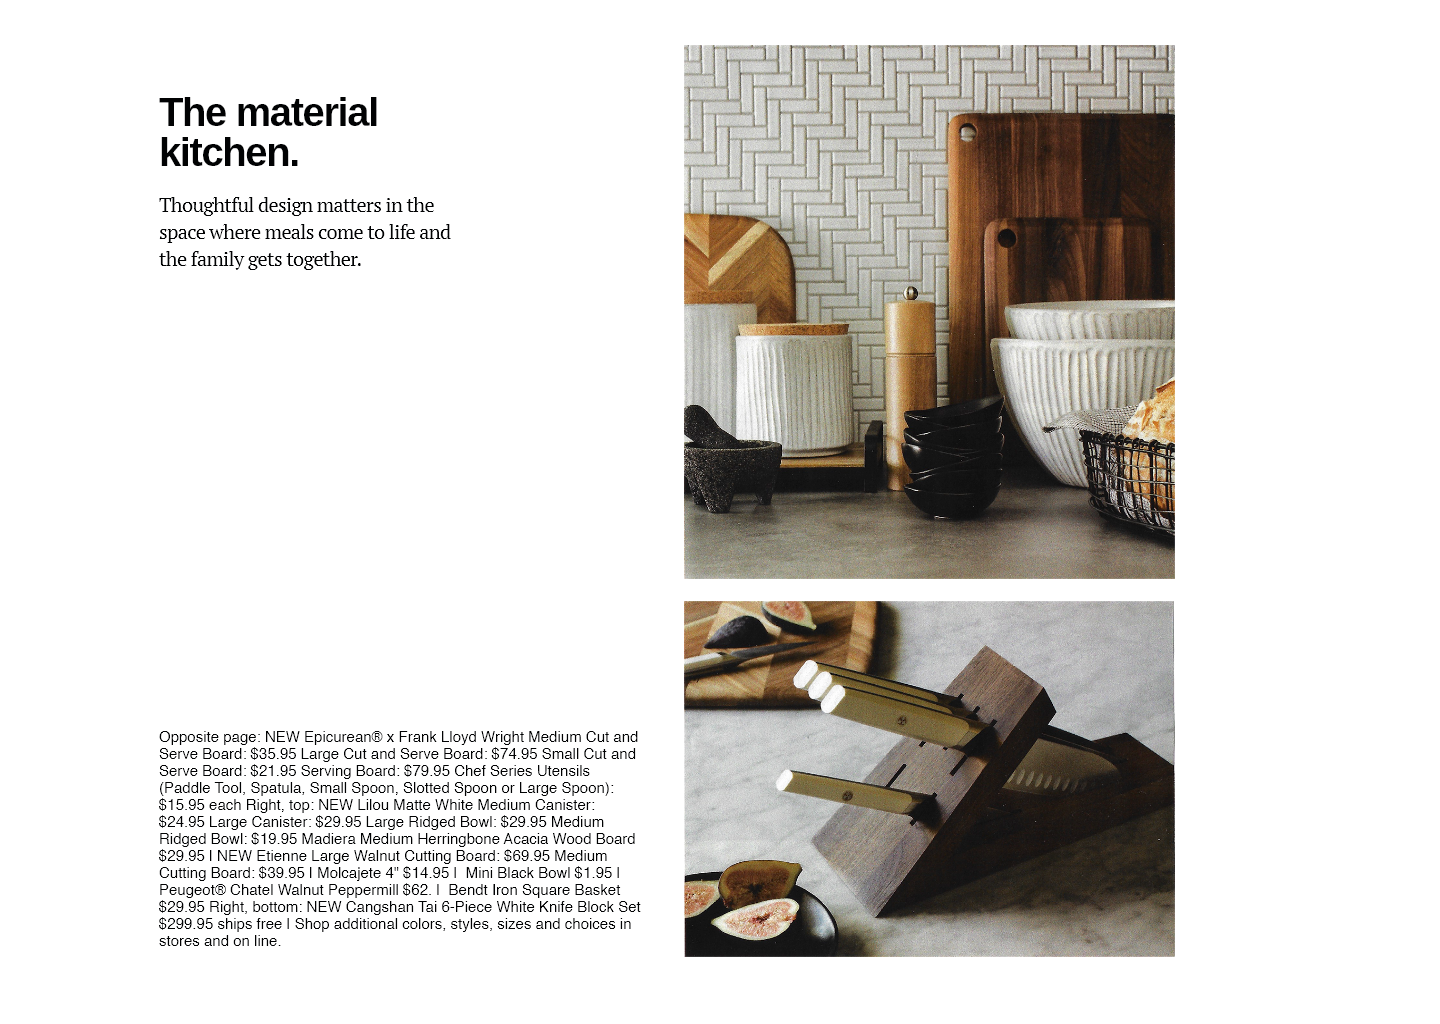
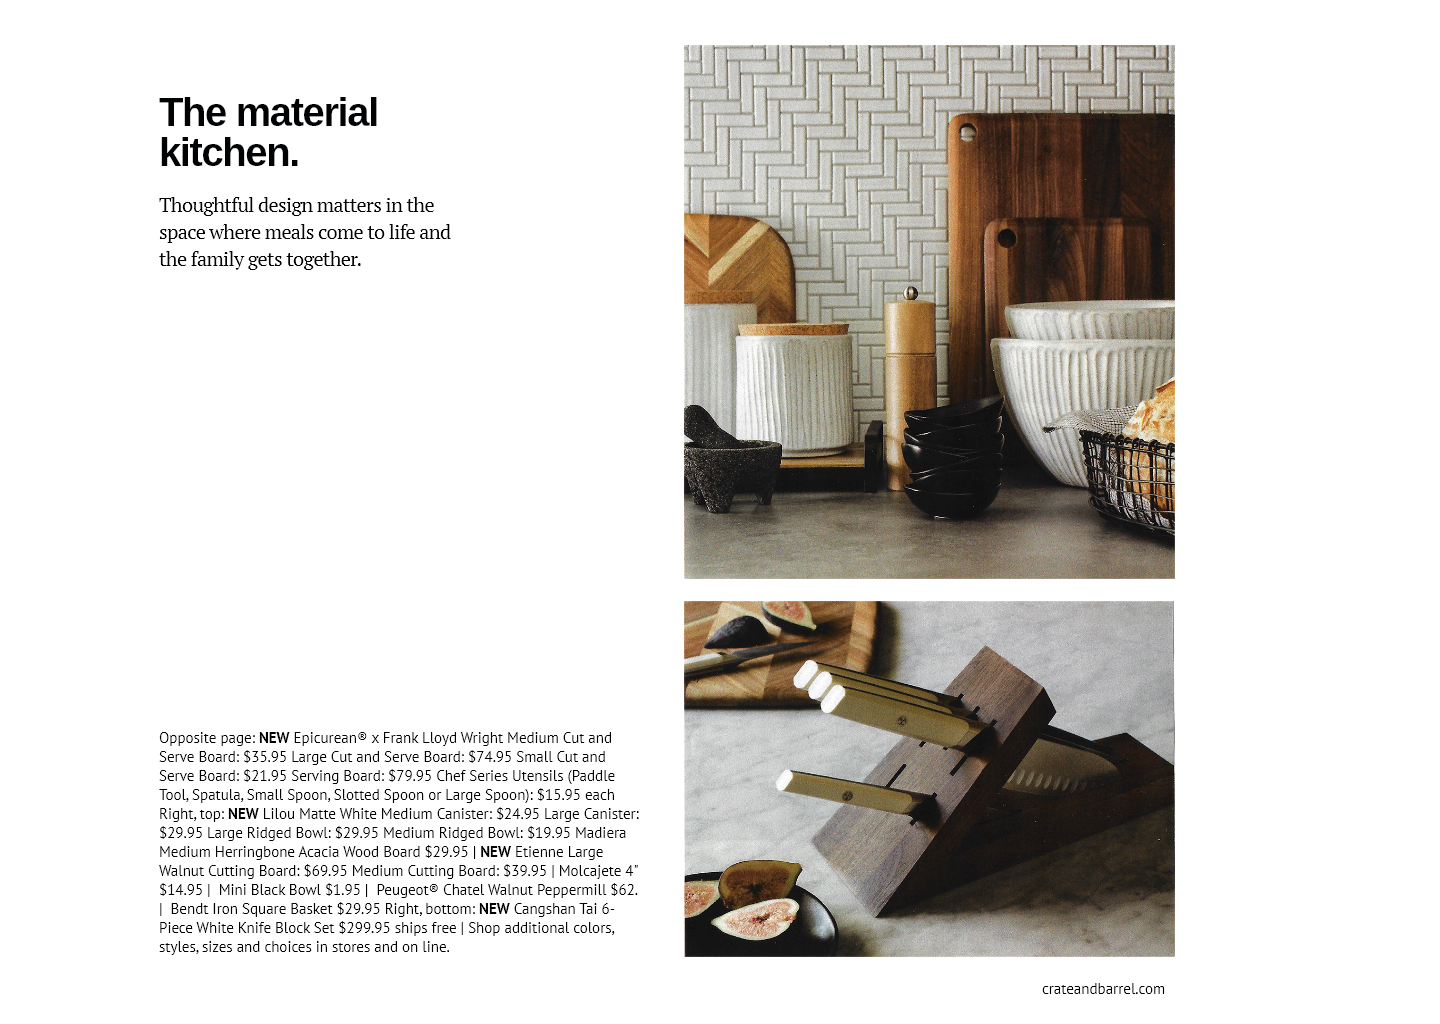
cleaning up

Changed region(s): [[0.0938, 0.7188, 0.4375, 0.9375], [0.75, 0.9375, 0.7812, 0.9688]]

diff --git a/code-exercises/magazine-layout/index.html b/code-exercises/magazine-layout/index.html
@@ -8,30 +8,31 @@
     <meta name="viewport" content="width=device-width, initial-scale=1">
     <link href="./css/normalize.css" type="text/css" rel="stylesheet">
     <link href="./css/style.css" type="text/css" rel="stylesheet">
-    <link href="https://fonts.googleapis.com/css?family=Arimo" rel="stylesheet">
-    <link rel="stylesheet" href="https://fonts.googleapis.com/css?family=PT+Serif:400,400italic,700,700italic%7CPT+Sans:400,400italic,700,700italic%7CArimo:regular" media="all">
+    <link href="https://fonts.googleapis.com/css2?family=Arimo:wght@700&display=swap" rel="stylesheet">
+    <link href="https://fonts.googleapis.com/css2?family=PT+Serif&display=swap" rel="stylesheet">
   </head>
 
   <body>
 
     <div class="row">
       <div class="column">
-        <h1 class="heading">
+        <h1>
           The material
           <br>
           kitchen.
         </h1>
-        <h2 class="heading-2">
+        <h2>
           Thoughtful design matters in the space where meals come to life and the family gets together.
         </h2>
-        <p class="paragraph">
-          Opposite page: NEW Epicurean® x Frank Lloyd Wright Medium Cut and Serve Board: $35.95 Large Cut and Serve Board: $74.95 Small Cut and Serve Board: $21.95 Serving Board: $79.95 Chef Series Utensils (Paddle Tool, Spatula, Small Spoon, Slotted Spoon or Large Spoon): $15.95 each Right, top: NEW Lilou Matte White Medium Canister: $24.95 Large Canister: $29.95 Large Ridged Bowl: $29.95 Medium Ridged Bowl: $19.95 Madiera Medium Herringbone Acacia Wood Board $29.95 | NEW Etienne Large Walnut Cutting Board: $69.95 Medium Cutting Board: $39.95 | Molcajete 4" $14.95 | &nbsp;Mini Black Bowl $1.95 | &nbsp;Peugeot® Chatel Walnut Peppermill $62. | &nbsp;Bendt Iron Square Basket $29.95 Right, bottom: NEW Cangshan Tai 6-Piece White Knife Block Set $299.95 ships free | Shop additional colors, styles, sizes and choices in stores and on line.
+        <p>
+          Opposite page: <b> NEW </b> Epicurean® x Frank Lloyd Wright Medium Cut and Serve Board: $35.95 Large Cut and Serve Board: $74.95 Small Cut and Serve Board: $21.95 Serving Board: $79.95 Chef Series Utensils (Paddle Tool, Spatula, Small Spoon, Slotted Spoon or Large Spoon): $15.95 each Right, top: <b> NEW </b> Lilou Matte White Medium Canister: $24.95 Large Canister: $29.95 Large Ridged Bowl: $29.95 Medium Ridged Bowl: $19.95 Madiera Medium Herringbone Acacia Wood Board $29.95 | <b> NEW </b> Etienne Large Walnut Cutting Board: $69.95 Medium Cutting Board: $39.95 | Molcajete 4" $14.95 | &nbsp;Mini Black Bowl $1.95 | &nbsp;Peugeot® Chatel Walnut Peppermill $62. | &nbsp;Bendt Iron Square Basket $29.95 Right, bottom: <b> NEW </b> Cangshan Tai 6-Piece White Knife Block Set $299.95 ships free | Shop additional colors, styles, sizes and choices in stores and on line.
         </p>
       </div>
 
       <div class="column">
         <img src="./img/bowls-02.jpg" alt="bowls" width="491" height="534" class="image1">
         <img src="./img/knife-block-02.jpg" alt="knife-block" width="491" height="356" class="image2">
+        <p align="right" class=website> crateandbarrel.com </p>
       </div>
     </div>
 

diff --git a/code-exercises/magazine-layout/css/style.css b/code-exercises/magazine-layout/css/style.css
@@ -10,28 +10,25 @@ div {
     display: block;
 }
 
-.heading {
-    margin-top: 97px;
-    margin-left: 159px;
-    margin-bottom: 29px;
-    font-size: 40px;
-    text-transform: none;
-}
-
 h1 {font-family: 'Arimo', sans-serif;
     line-height: 40px;
     font-weight: bold;
     letter-spacing: -35px
-    margin: .67em 0;
     display: block;
     margin-block-start: 0.67em;
     margin-block-end: 0.67em;
-    margin-inline-start: 0px;
-    margin-inline-end: 0px;
     font-size: 40
+    margin-top: 97px;
+    margin-left: 159px;
+    margin-bottom: 29px;
+    font-size: 40px;
 }
 
-.heading-2 {
+h2 {line-height: 36px;
+    margin-bottom: 10px;
+    margin-block-start: 0.83em;
+    margin-block-end: 0.83em;
+    margin-inline-start: 0px;
     width: 292px;
     margin-top: 29px;
     margin-left: 159px;
@@ -41,15 +38,10 @@ h1 {font-family: 'Arimo', sans-serif;
     line-height: 27px
 }
 
-h2 {line-height: 36px;
-    margin-bottom: 10px;
-    margin-block-start: 0.83em;
-    margin-block-end: 0.83em;
-    margin-inline-start: 0px;
-    margin-inline-end: 0px;
-}
 
-.paragraph {
+p {display: block;
+    margin-block-start: 1em;
+    margin-block-end: 1em;
     width: 482px;
     height: 215px;
     margin-top: 473px;
@@ -59,14 +51,11 @@ h2 {line-height: 36px;
     font-size: 15px;
     font-weight: 400;
     line-height: 17px
-}
-
-p {display: block;
-    margin-block-start: 1em;
-    margin-block-end: 1em;
-    margin-inline-start: 0px;
-    margin-inline-end: 0px;
   }
+
+.website {
+  margin-top: 10px;
+  margin-left: 50px}
 
 .image1 {
     margin-top: 45px;
@@ -74,7 +63,7 @@ p {display: block;
     margin-left: 43px;
 }
 .image2 {
-    margin-bottom: 67px;
+    margin-bottom: 10px;
     margin-left: 43px;
 }
 
